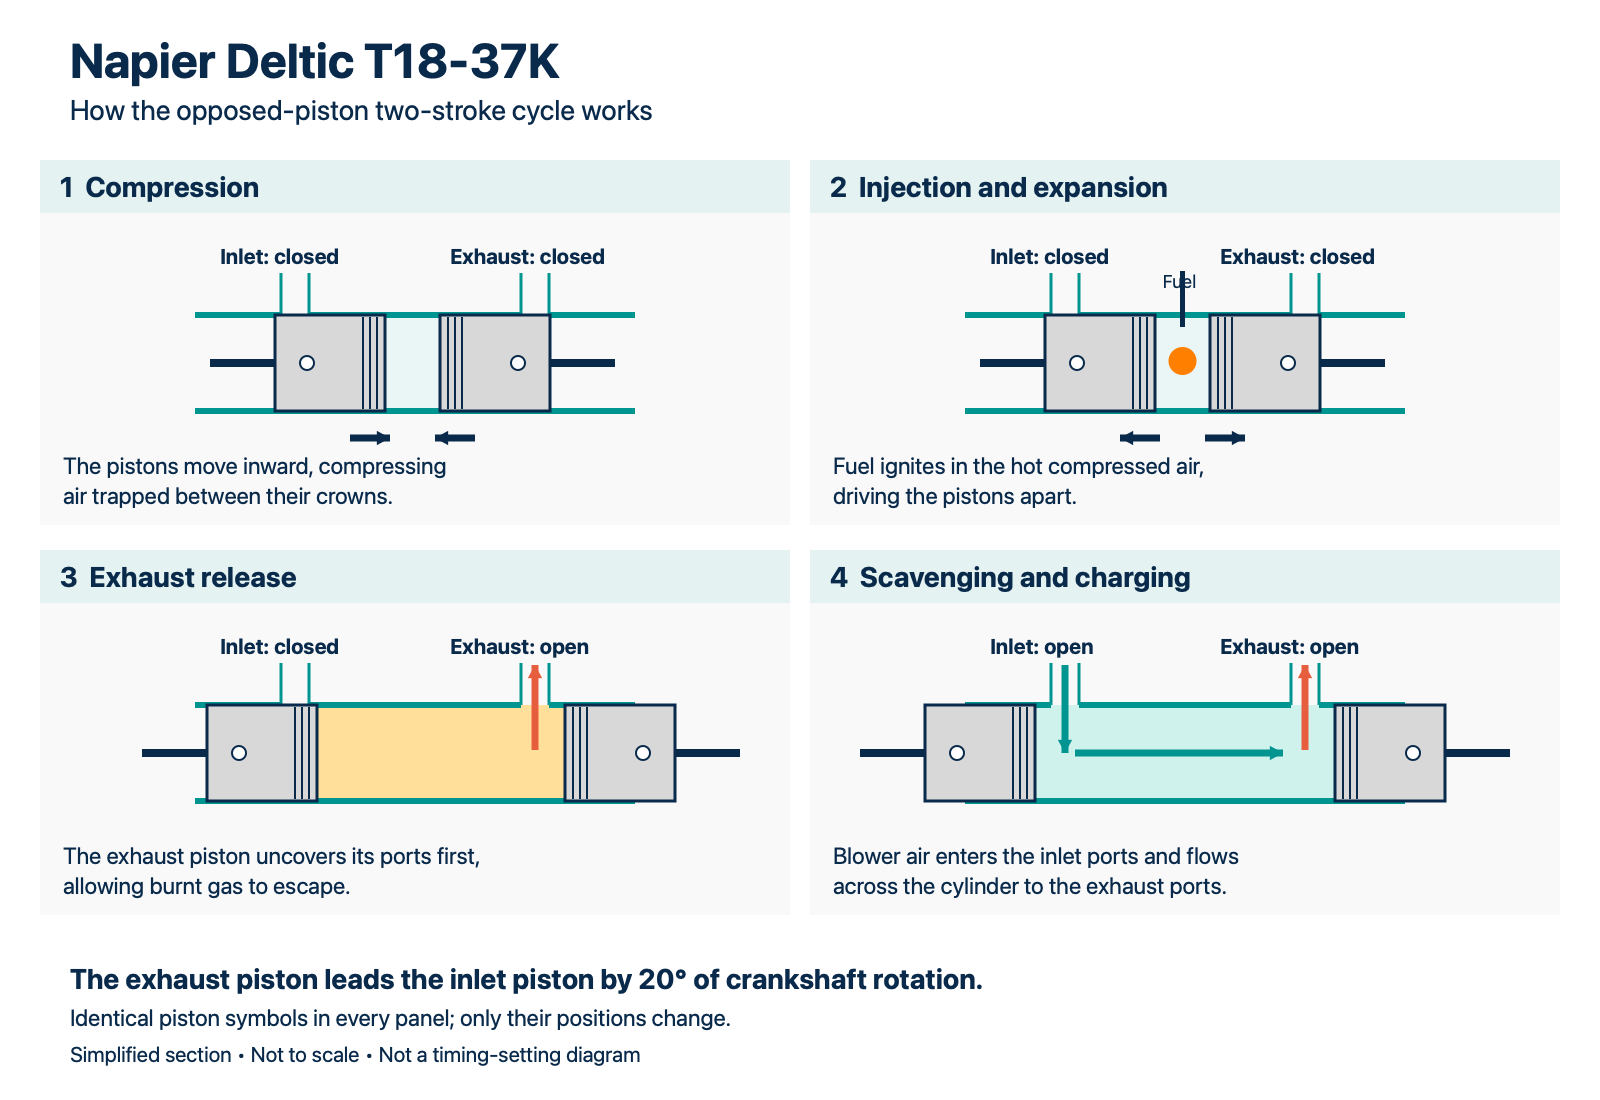
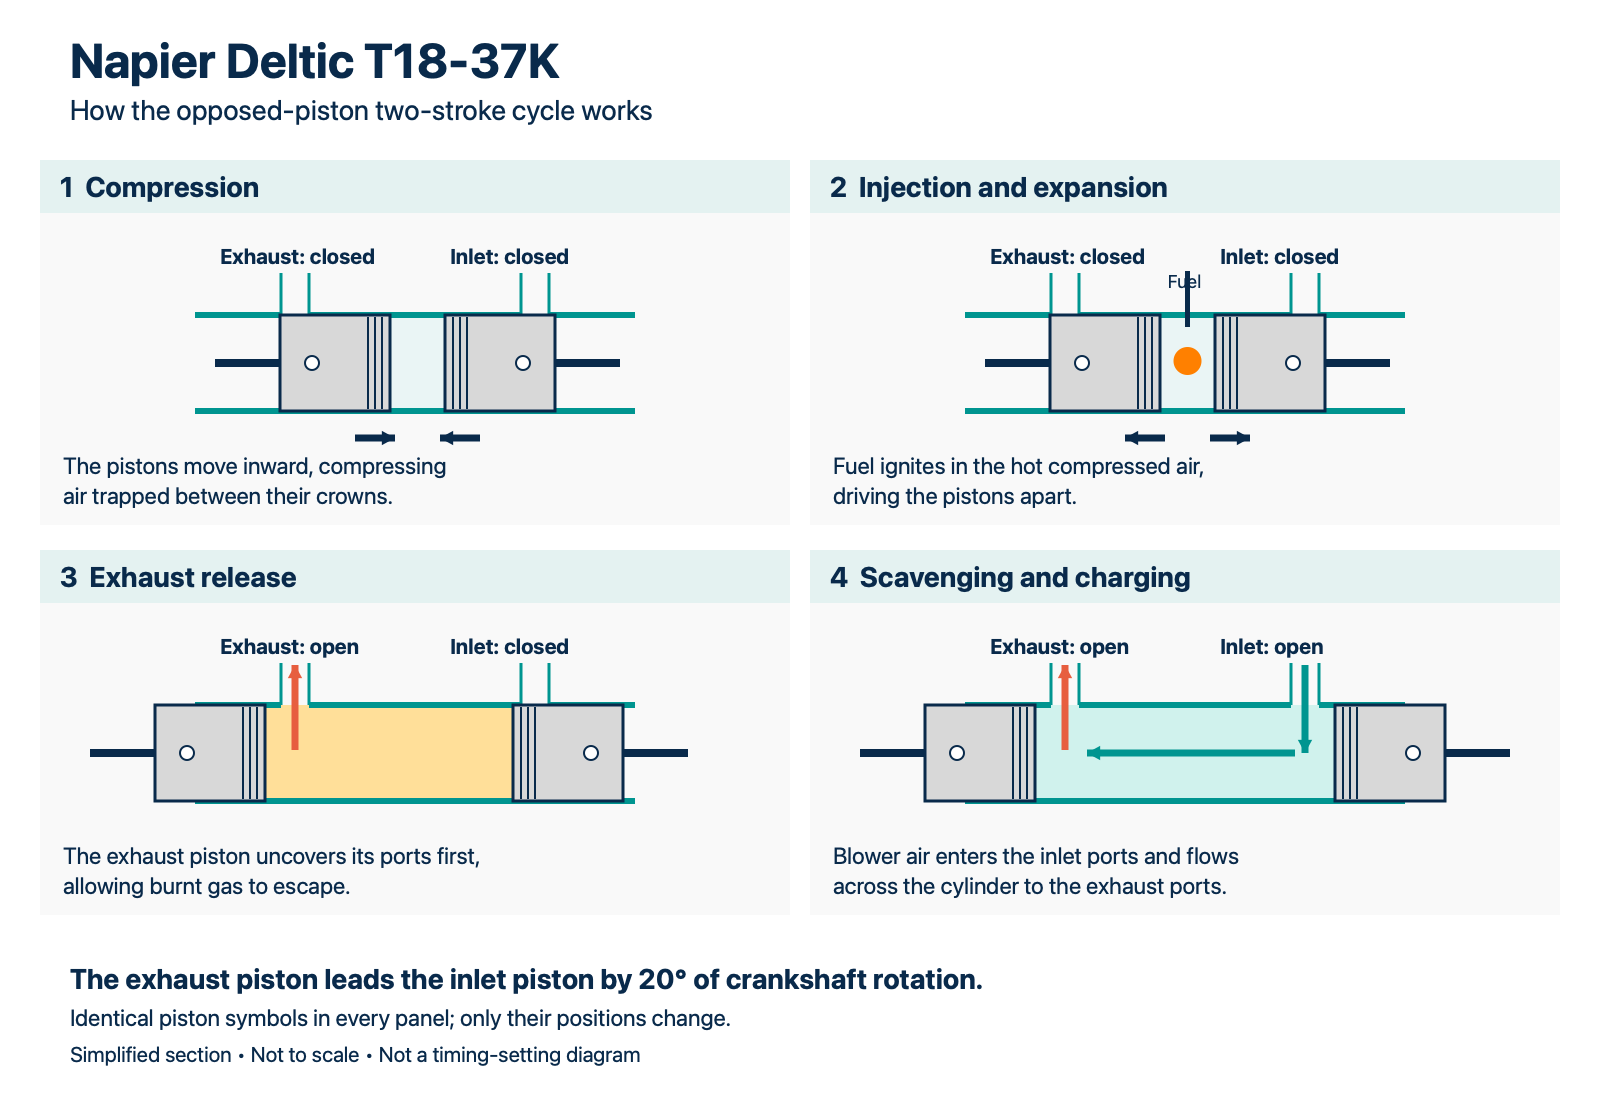
update

diff --git a/scripts/illustrations/deltic-cycle.swift b/scripts/illustrations/deltic-cycle.swift
@@ -42,18 +42,18 @@ for i in 0..<4 {
  rect(ox,oy,750,53,NSColor(calibratedRed:0.87,green:0.94,blue:0.93,alpha:1))
  text(titles[i],ox+20,oy+9,28,true)
  let sx=ox+155, sy=oy+155, length=440.0
- let inlet=sx+100, exhaust=sx+340
- let l=[sx+190,sx+190,sx+122,sx+70][i]
- let r=[sx+245,sx+245,sx+370,sx+370][i]
+ let exhaust=sx+100, inlet=sx+340
+ let l=[sx+195,sx+195,sx+70,sx+70][i]
+ let r=[sx+250,sx+250,sx+318,sx+370][i]
  rect(sx,sy,length,96,NSColor(calibratedWhite:0.97,alpha:1))
  rect(l,sy,r-l,96,i<2 ? NSColor(calibratedRed:0.9,green:0.95,blue:0.95,alpha:1) : i==2 ? NSColor(calibratedRed:1,green:0.85,blue:0.53,alpha:1) : NSColor(calibratedRed:0.78,green:0.94,blue:0.91,alpha:1))
  // Fixed wall apertures and ducts, with no opening into the rod space.
- line(sx,sy,inlet-14,sy,teal,6);line(inlet+14,sy,exhaust-14,sy,teal,6);line(exhaust+14,sy,sx+length,sy,teal,6)
+ line(sx,sy,exhaust-14,sy,teal,6);line(exhaust+14,sy,inlet-14,sy,teal,6);line(inlet+14,sy,sx+length,sy,teal,6)
  line(sx,sy+96,sx+length,sy+96,teal,6)
  for port in [inlet,exhaust] {line(port-14,sy-42,port-14,sy,teal,3);line(port+14,sy-42,port+14,sy,teal,3)}
  piston(l,sy,true);piston(r,sy,false)
- text("Inlet: \(i==3 ? "open" : "closed")",sx+25,oy+83,21,true)
- text("Exhaust: \(i>=2 ? "open" : "closed")",sx+255,oy+83,21,true)
+ text("Inlet: \(i==3 ? "open" : "closed")",sx+255,oy+83,21,true)
+ text("Exhaust: \(i>=2 ? "open" : "closed")",sx+25,oy+83,21,true)
  if i==0 {arrow(l-35,sy+123,l+5,sy+123,navy);arrow(r+35,sy+123,r-5,sy+123,navy)}
  if i==1 {
   let mid=(l+r)/2;line(mid,sy-44,mid,sy+12,navy,5);text("Fuel",mid-20,oy+110,18)
@@ -61,7 +61,7 @@ for i in 0..<4 {
   arrow(l+5,sy+123,l-35,sy+123,navy);arrow(r-5,sy+123,r+35,sy+123,navy)
  }
  if i>=2 {arrow(exhaust,sy+45,exhaust,sy-40,coral)}
- if i==3 {arrow(inlet,sy-40,inlet,sy+48,teal);arrow(inlet+10,sy+48,exhaust-22,sy+48,teal)}
+ if i==3 {arrow(inlet,sy-40,inlet,sy+48,teal);arrow(inlet-10,sy+48,exhaust+22,sy+48,teal)}
  text(captions[i][0],ox+23,oy+291,23);text(captions[i][1],ox+23,oy+321,23)
 }
 text("The exhaust piston leads the inlet piston by 20° of crankshaft rotation.",70,961,28,true)

diff --git a/static/images/deltic/README.md b/static/images/deltic/README.md
@@ -6,7 +6,7 @@ Created 4 November 2026 for the KNM Skrei website with AI assistance. Current il
 - `t18-37k-layout-v3.png`: superseded airflow map with all three cylinders illustrated scavenging independently, not simultaneous engine timing.
 - `t18-37k-layout-v2.png`: superseded geometric layout without gas-flow information.
 - `t18-37k-layout.png`: superseded AI illustration with misleading connecting-rod geometry; not used by the website.
-- `t18-37k-cycle-v3.png`: original geometric four-stage schematic. All eight piston symbols are generated by the same 110 by 96 unit drawing function; cylinders and port positions remain fixed. Source: `scripts/illustrations/deltic-cycle.swift`. Piston positions are illustrative, not calculated crank-angle positions.
+- `t18-37k-cycle-v3.png`: current geometric four-stage schematic, with exhaust on the left and inlet on the right. Piston positions and scavenging arrows follow this orientation; exhaust opens first. All eight piston symbols are generated by the same 110 by 96 unit drawing function; cylinders and port positions remain fixed. Source: `scripts/illustrations/deltic-cycle.swift`. Piston positions are illustrative, not calculated crank-angle positions.
 - `t18-37k-cycle-v2.png`: superseded AI revision; piston lengths were inconsistent. Not used by the website.
 - `t18-37k-cycle.png`: superseded first version; incorrect port flow depiction, not used by the website.
 
